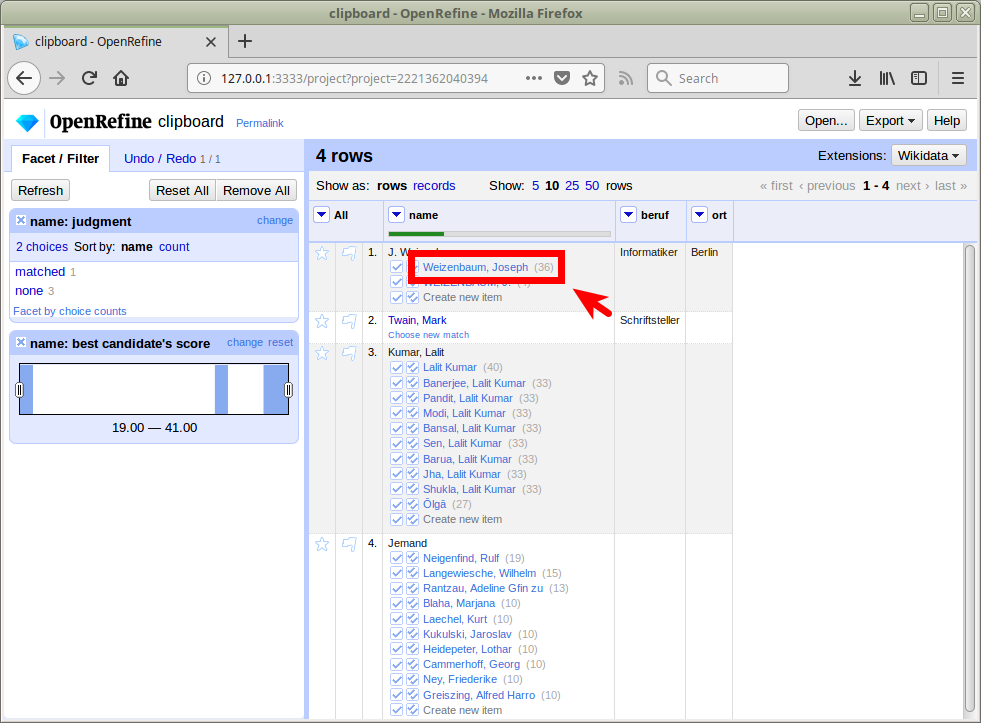
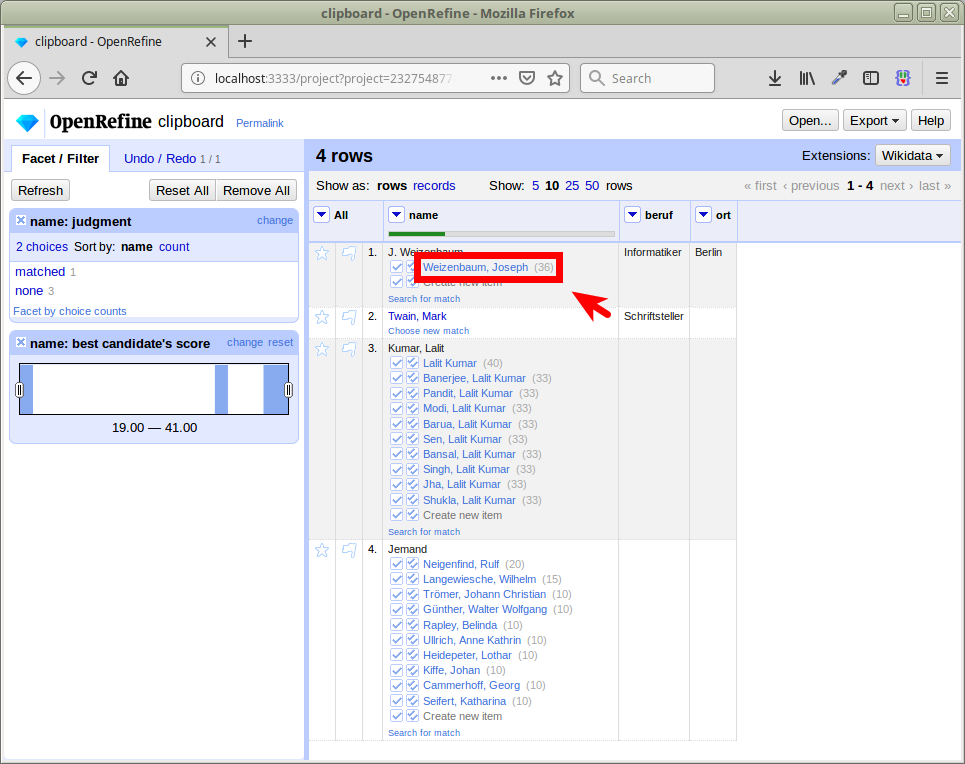
Add post on improved GND reconciliation, update full documentation
See https://github.com/hbz/lobid-gnd/issues/206

Changed region(s): [[0.0, 0.0304, 0.9948, 1.0], [0.342, 0.0, 0.5907, 0.0304], [0.9326, 0.0, 0.9948, 0.0304]]

diff --git a/_layouts/post.html b/_layouts/post.html
@@ -3,8 +3,8 @@ layout: default
 ---
 <h1>{{ page.title }}</h1>
 <p class="meta">
-	{{ page.date | date_to_string }}, {{ page.author }}
-	| <b>&#127991;</b><small>
+	<small>{{ page.date | date_to_string }}{% if page.updated != null %} &ndash; {{page.updated | date_to_string}}{% endif %}, {{ page.author }}
+	| <b>&#127991;</b>
 		{% for tag in page.tags %}
 		{% capture tag_name %}{{ tag }}{% endcapture %}
 		<a href="/tags/{{ tag_name }}"><code><nobr>{{ tag_name }}</nobr></code></a>&nbsp;

diff --git a/_posts/2018-08-27-openrefine.md b/_posts/2018-08-27-openrefine.md
@@ -2,6 +2,7 @@
 layout: post
 title: "GND reconciliation for OpenRefine"
 date: 2018-08-27
+updated: 2019-08-19
 author: Fabian Steeg, Adrian Pohl
 tags: lobid-gnd
 ---
@@ -46,15 +47,15 @@ Collapse the drawer on the left hand side by clicking the newly added service. A
 
 ![7-1](/images/2018-08-27-openrefine/07-type.png)
 
-Optionally, we could reconcile against a type that is not suggested by selecting "Reconcile against type" and specifying the type, e.g. `BuildingOrMemorial`:
+Optionally, we could reconcile against a non-default type by typing into the "Reconcile against type" field and selecting one of the suggested types, e.g. `Person`:
 
 ![7-2](/images/2018-08-27-openrefine/07-type-custom.png)
 
-For real-world data it can make sense to pass additional data from other columns to improve the reconciliation results (the value in the text box is arbitrary here, but must not be empty):
+It can make sense to pass additional data from other columns to improve the reconciliation results. Type in the text fields for each column, and select one of the suggested properties. E.g. use the data from the `beruf` column to search in the `professionOrOccupationAsLiteral` field in the GND:
 
 ![8](/images/2018-08-27-openrefine/08-other.png)
 
-After reconciliation, we can inspect not automatically matched candidates by clicking their name:
+After reconciliation, we can inspect candidates that have not been automatically matched by clicking or hovering over (depending on your OpenRefine version) their name:
 
 ![9](/images/2018-08-27-openrefine/09-candidate.png)
 
@@ -62,11 +63,15 @@ This brings up a preview, with the option to match them:
 
 ![10](/images/2018-08-27-openrefine/10-preview.png)
 
+Alternatively, we can search for a match by clicking "Search for match". This brings up a dialog with a text field prefilled with the cell value. Select one of the suggestions to match the cell:
+
+![10](/images/2018-08-27-openrefine/10-search.png)
+
 After matching, we can enrich our data with the reconciled data. We want to add columns based on the reconciled values:
 
 ![11](/images/2018-08-27-openrefine/11-add-columns.png)
 
-We can now select the properties we want to add and preview them. Here, we choose `Beruf oder Beschäftigung`, `Geburtsort`, `Sterbeort`, and `Ländercode`:
+We can now select the properties we want to add (using the search field and picking one of the suggestions for what we typed, or from the the prefilled list below the search field) and preview them. Here, we choose `Beruf oder Beschäftigung`, `Geburtsort`, `Sterbeort`, and `Ländercode`:
 
 ![12](/images/2018-08-27-openrefine/12-add-preview.png)
 

diff --git a/_posts/2019-08-19-openrefine.md b/_posts/2019-08-19-openrefine.md
@@ -1,0 +1,27 @@
+---
+layout: post
+title: "Improved GND reconciliation for OpenRefine"
+date: 2019-08-19
+author: Fabian Steeg
+tags: lobid-gnd
+---
+
+Triggered by the newly formed [W3C Entity Reconciliation Community Group](https://www.w3.org/community/reconciliation/) and its [reconciliation service test bench](https://reconciliation-api.github.io/testbench/) we have improved our GND reconciliation for OpenRefine by implementing the [OpenRefine suggest API](https://github.com/OpenRefine/OpenRefine/wiki/Suggest-API) for searching types, properties, and entities.
+
+When selecting a custom type in the reconciliation dialog, matching types are suggested:
+
+![7-2](/images/2018-08-27-openrefine/07-type-custom.png)
+
+Data from other columns can be used to improve reconciliation results by selecting a suggested property:
+
+![8](/images/2018-08-27-openrefine/08-other.png)
+
+Candidates can be matched by selecting suggested entities:
+
+![10](/images/2018-08-27-openrefine/10-search.png)
+
+Properties are also suggested when adding columns from reconciled values:
+
+![8](/images/2018-08-27-openrefine/12-add-suggest.png)
+
+For complete usage instructions check out our updated documentation on [GND reconciliation for OpenRefine](http://blog.lobid.org/2018/08/27/openrefine.html).
